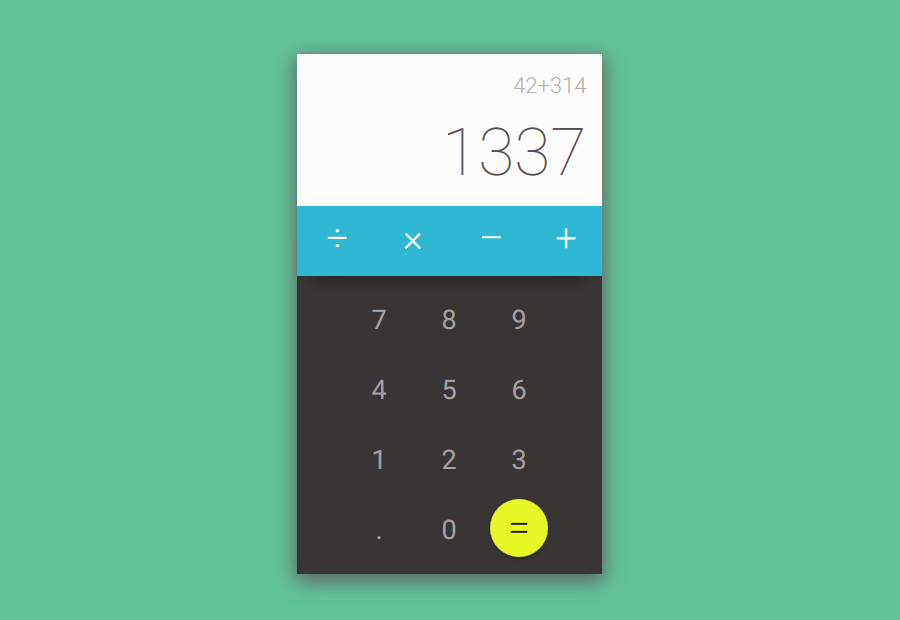
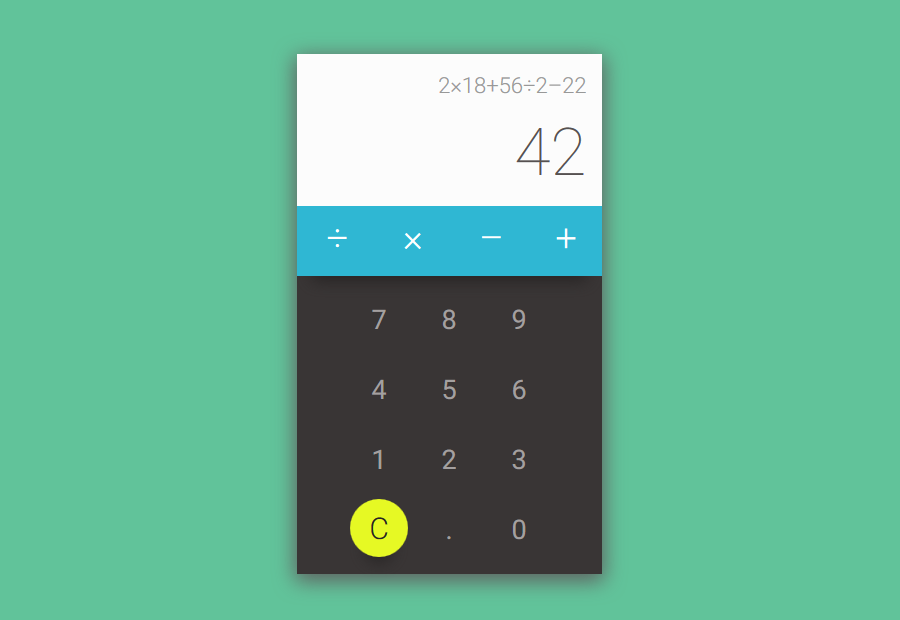
Updated screenshot

diff --git a/css/calculator.css b/css/calculator.css
@@ -37,7 +37,7 @@ body {
 }
 
 #calculator-screen-operation {
-	color: #b4b1b1;
+	color: #989898;
 	font-size: 22px;
 	text-align: right;
 }

diff --git a/readme.md b/readme.md
@@ -1,13 +1,13 @@
 # Calculator
 
-A minimal calculator, written with **CSS** and **Javascript**.  
+A minimal - but fullt fonctionnal - calculator, written with **CSS** and **Javascript**.  
 It follows Google's [Material Design guidelines](https://material.io/guidelines/).
 
 <p align="center">
   <img src="https://raw.githubusercontent.com/mkspcd/CalculatorJS/master/screenshot.png" alt="Calculator" />
 </p>
 
-*Original design by [Ruban Khalid](https://dribbble.com/shots/2321336-Calculator-004-Daily-UI).*
+*Original design by [Ruban Khalid](https://dribbble.com/shots/2321336-Calculator-004-Daily-UI).* I integrated his design (CSS and HTML) and slightly modified it for my needs.
 
 
 
